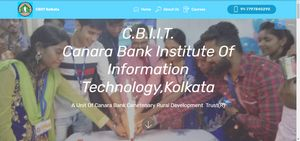
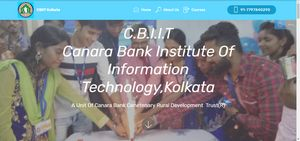
Address and copyright year updated

diff --git a/index.html b/index.html
@@ -65,7 +65,7 @@
     </nav>
 </section>
 
-<section class="engine"><a href="https://mobirise.info/q">responsive website templates</a></section><section class="cid-qTkA127IK8 mbr-fullscreen mbr-parallax-background" id="header2-1">
+<section class="engine"><a href="https://mobirise.info/d">free web maker</a></section><section class="cid-qTkA127IK8 mbr-fullscreen mbr-parallax-background" id="header2-1">
 
     
 
@@ -74,7 +74,7 @@
     <div class="container align-center">
         <div class="row justify-content-md-center">
             <div class="mbr-white col-md-10">
-                <h1 class="mbr-section-title mbr-bold pb-3 mbr-fonts-style display-1"><em>C.B.I.I.T.<br>Canara Bank Institute Of Information Technology,Kolkata</em></h1>
+                <h1 class="mbr-section-title mbr-bold pb-3 mbr-fonts-style display-1"><em>C.B.I.I.T<br>Canara Bank Institute Of Information Technology,Kolkata</em></h1>
                 
                 <p class="mbr-text pb-3 mbr-fonts-style display-5">A Unit Of Canara Bank Cenetenary Rural Development &nbsp;Trust(R)</p>
                 
@@ -338,7 +338,7 @@
                             Address:
                         </h5>
                         <p class="mbr-text align-left mbr-fonts-style display-7">C.B.I.I.T. 
-<br>2nd Floor,53, Dr.Lal Mohan Bhattacharjee Road, Entally,Kolkata-700014</p>
+<br>2nd floor, 53 Dr Lal Mohan Bhattacharjee Road, Entally, Kolkata-700014<br></p>
                     </div>
                     <div class="b b-phone">
                         <h5 class="align-left mbr-fonts-style m-0 display-5">
@@ -360,7 +360,7 @@
             </div>
             <!--Right-->
             <div class="col-12 col-md-6">
-                <div class="google-map"><iframe frameborder="0" style="border:0" src="https://www.google.com/maps/embed?pb=!1m18!1m12!1m3!1d1549.1557293694475!2d88.37224775788067!3d22.55912155554683!2m3!1f0!2f0!3f0!3m2!1i1024!2i768!4f13.1!3m3!1m2!1s0x3a0276f75c7592c5%3A0xc35d8e70d9680f3a!2sCanara%20Bank%20-%20Entally%20Branch!5e0!3m2!1sen!2sin!4v1573547190690!5m2!1sen!2sin" allowfullscreen=""></iframe></div>
+                <div class="google-map"><iframe frameborder="0" style="border:0" src="https://www.google.com/maps/embed?pb=!1m18!1m12!1m3!1d3684.531068996627!2d88.37030571441464!3d22.559232439147593!2m3!1f0!2f0!3f0!3m2!1i1024!2i768!4f13.1!3m3!1m2!1s0x3a0270a29617629f%3A0x39e418dd3de61235!2sC.B.I.I.T.!5e0!3m2!1sen!2sin!4v1658944306147!5m2!1sen!2sin" allowfullscreen=""></iframe></div>
             </div>
         </div>
     </div>
@@ -450,7 +450,7 @@
         <div class="media-container-row align-center mbr-white">
             <div class="col-12">
                 <p class="mbr-text mb-0 mbr-fonts-style display-7">
-                    © Copyright 2019 CBIIT - All Rights Reserved
+                    © Copyright 2022 CBIIT - All Rights Reserved
                 </p>
             </div>
         </div>
